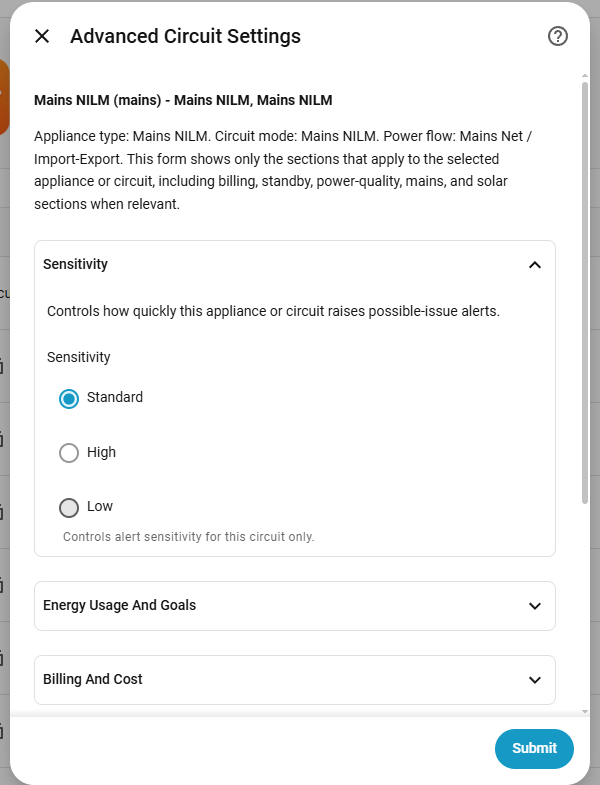
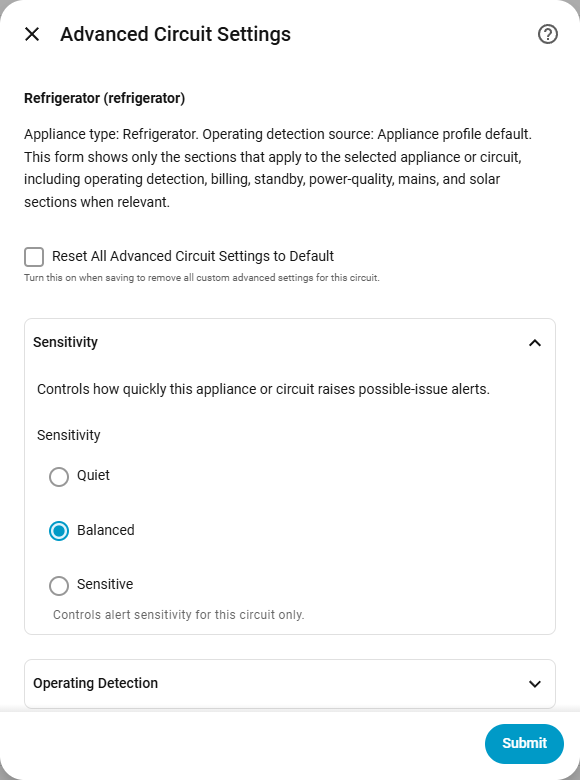
Refresh README Home Assistant screenshots (#316)
* docs: refresh README Home Assistant screenshots

* docs: add README screenshots for key user flows

Changed region(s): [[0.0, 0.0, 0.9, 1.0], [0.8069, 0.0, 1.0, 1.0], [0.869, 0.8615, 0.931, 0.8923]]

diff --git a/custom_components/circuitsetup_energy_analyzer/config_flow.py b/custom_components/circuitsetup_energy_analyzer/config_flow.py
@@ -49,6 +49,7 @@ except ModuleNotFoundError:
 try:
     from homeassistant import config_entries
     from homeassistant.core import callback
+    from homeassistant.helpers.selector import Selector as _HASelector
     from homeassistant.helpers.selector import selector as ha_selector
 except ModuleNotFoundError:
 
@@ -108,6 +109,7 @@ except ModuleNotFoundError:
         OptionsFlowWithReload=_OptionsFlow,
     )
     ha_selector = None
+    _HASelector = object
 
 try:
     from homeassistant.data_entry_flow import section
@@ -1092,12 +1094,15 @@ def _selector(
     return validator
 
 
-class _OptionalBlankSelector:
+class _OptionalBlankSelector(_HASelector):  # type: ignore[misc]
     """Selector wrapper for optional HA fields whose native selector rejects blanks."""
 
     def __init__(self, config: dict[str, Any], validator: Any) -> None:
         self._config = config
         self._validator = validator
+        self.selector_type = str(next(iter(config), ""))
+        selector_config = config.get(self.selector_type, {})
+        self.config = selector_config if isinstance(selector_config, Mapping) else {}
 
     def __call__(self, value: Any) -> Any:
         if value in (None, ""):
@@ -1110,7 +1115,7 @@ class _OptionalBlankSelector:
         return other == self._config
 
     def serialize(self) -> dict[str, Any]:
-        return self._config
+        return {"selector": self._config}
 
 
 class _SerializableSelectorFallback:

diff --git a/tests/test_config_flow.py b/tests/test_config_flow.py
@@ -5113,8 +5113,10 @@ def test_flow_schemas_serialize_for_home_assistant_frontend() -> None:
 
     from custom_components.circuitsetup_energy_analyzer.config_flow import (
         DATA_SCHEMA,
+        _advanced_settings_schema,
         _entity_detail_schema,
         _options_schema,
+        _time_selector,
     )
 
     def serialize_ha_selector(schema):
@@ -5134,6 +5136,17 @@ def test_flow_schemas_serialize_for_home_assistant_frontend() -> None:
     assert voluptuous_serialize.convert(
         _entity_detail_schema(SimpleNamespace(data={}, options={})),
         custom_serializer=serialize_ha_selector,
+    )
+    assert _time_selector().serialize() == {"selector": {"time": {}}}
+
+    try:
+        from homeassistant.helpers import config_validation as cv
+    except ModuleNotFoundError:
+        return
+
+    assert voluptuous_serialize.convert(
+        _advanced_settings_schema({}),
+        custom_serializer=cv.custom_serializer,
     )
 
 

diff --git a/README.md b/README.md
@@ -107,7 +107,7 @@ During setup, you choose:
 
 ![Source selection panel showing Source Devices and Extra Source Entities](docs/images/readme/source-selection.png)
 
-![Circuit assignment editor showing circuit mode and power flow controls](docs/images/readme/assignment-editor.png)
+![Circuit assignment editor showing automatic classification, included sensors, and retention controls](docs/images/readme/assignment-editor.png)
 
 ## Using The Integration
 
@@ -149,6 +149,8 @@ questions instead of raw diagnostic entity lists:
   value, what the setting controls, why the suggestion exists, expected effect,
   and reset/apply/dismiss actions.
 
+![Appliance detail panel showing refrigerator health, activity, energy, and recent evidence](docs/images/readme/appliance-detail.png)
+
 ## First-time setup checklist
 
 1. Install the integration, restart Home Assistant, and add it from **Settings > Devices & services**.
@@ -170,6 +172,8 @@ questions instead of raw diagnostic entity lists:
 11. Save the configuration.
 12. Let the analyzer learn before acting on behavior alerts. Most behavior checks need at least 7 days or enough appliance cycles.
 13. Use **Advanced Circuit Settings** later if you need to tune thresholds, goals, billing, demand, capacity, standby, solar-flow, water context, or other feature settings.
+
+![Setup Health checklist showing recommended setup actions for configured circuits](docs/images/readme/setup-health.png)
 
 ## Classify circuits carefully
 
@@ -232,6 +236,8 @@ The integration has an **Entity Detail Level** option under **Settings > Devices
 - **Expert**: creates only the diagnostic or graph groups you select under **Expert Entity Groups**, useful for troubleshooting and custom diagnostic dashboards.
 
 Changing **Entity Detail Level** reloads the integration so the entity set matches the selected profile. Expert creates only the diagnostic or graph groups you select, such as Developer Diagnostics, Energy Detail, Demand and Capacity, Mains and Solar Detail, NILM Detail, Cycle Metrics, Electrical Scores, Power Quality Drift, Billing Forecasts, Standby, Weather, and Water. Existing manual entity-registry customizations are respected; use **Migrate To Compact Entity Model** when you want to remove preserved legacy rows.
+
+![Entity Detail Level options showing Simple, Standard, and Expert entity profiles](docs/images/readme/entity-detail-level.png)
 
 For a configured circuit ID such as `refrigerator`, `hvac`, or `car_charger`, the main entities follow this pattern:
 
@@ -372,7 +378,7 @@ Go to:
 
 **Settings > Devices & services > CircuitSetup Energy Analyzer > Configure > Advanced Circuit Settings**
 
-![Advanced circuit settings panel with sensitivity and energy window controls](docs/images/readme/advanced-settings.png)
+![Advanced circuit settings panel showing circuit-specific sensitivity and applicable tuning sections](docs/images/readme/advanced-settings.png)
 
 Use **Advanced Circuit Settings** to configure circuit-specific options such as:
 
@@ -646,6 +652,8 @@ Experimental NILM is opt-in. It can look for recurring unknown load signatures f
 
 On generated Standard and Expert dashboards, use **Open NILM Graph & Review** in the **Mains, Solar, and NILM** section to open the mains NILM workspace graph and review actions.
 
+![NILM workspace showing needs-review signatures, review lanes, and load labeling actions](docs/images/readme/experimental-nilm.png)
+
 Unknown load estimates may include:
 
 - Likely load type
@@ -669,6 +677,8 @@ After enough history, the analyzer can suggest advanced settings based on observ
 Review them from:
 
 **Settings > Devices & services > CircuitSetup Energy Analyzer > Configure > Review Suggested Settings**
+
+![Suggested settings review panel showing evidence-backed advanced-setting recommendations](docs/images/readme/suggested-settings.png)
 
 For each suggestion, you can:
 
@@ -711,9 +721,11 @@ Persistent notifications include a Markdown link to **Open evidence graph** when
 
 The dynamic Alert Evidence panel reads the alert payload, including `graph_entities`, and dynamically selects graph entities for appliance, mains, nilm, weather-context, and energy-overview cards. Companion App notifications can use the same target through `clickAction`.
 
+The analyzer can also notify when suggested Advanced Circuit Settings are ready for review.
+
 For a dashboard-first view of the same concepts, see `docs/dashboard-example.yaml`.
 
-![Home Assistant notification drawer showing a CircuitSetup Energy Analyzer possible-issue notification](docs/images/readme/notifications-panel.png)
+![Home Assistant notification drawer showing CircuitSetup Energy Analyzer suggested settings](docs/images/readme/notifications-panel.png)
 
 ![Dynamic Energy Analyzer evidence graph opened from a notification link](docs/images/readme/notifications-repairs.png)
 
